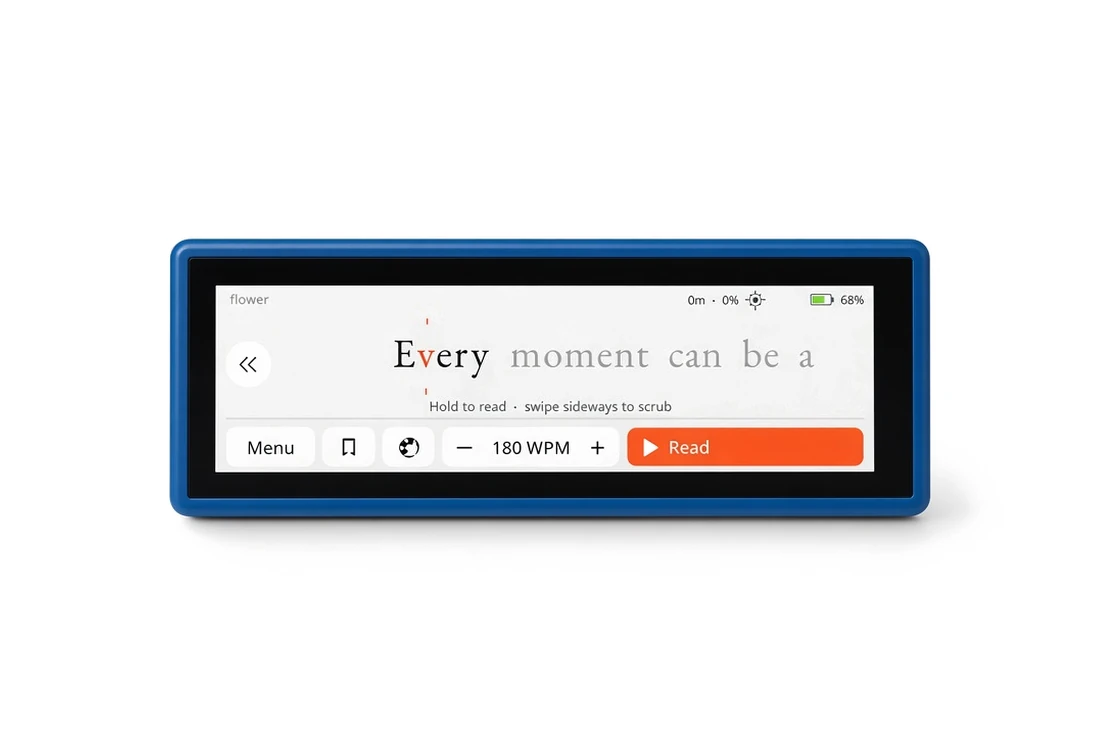
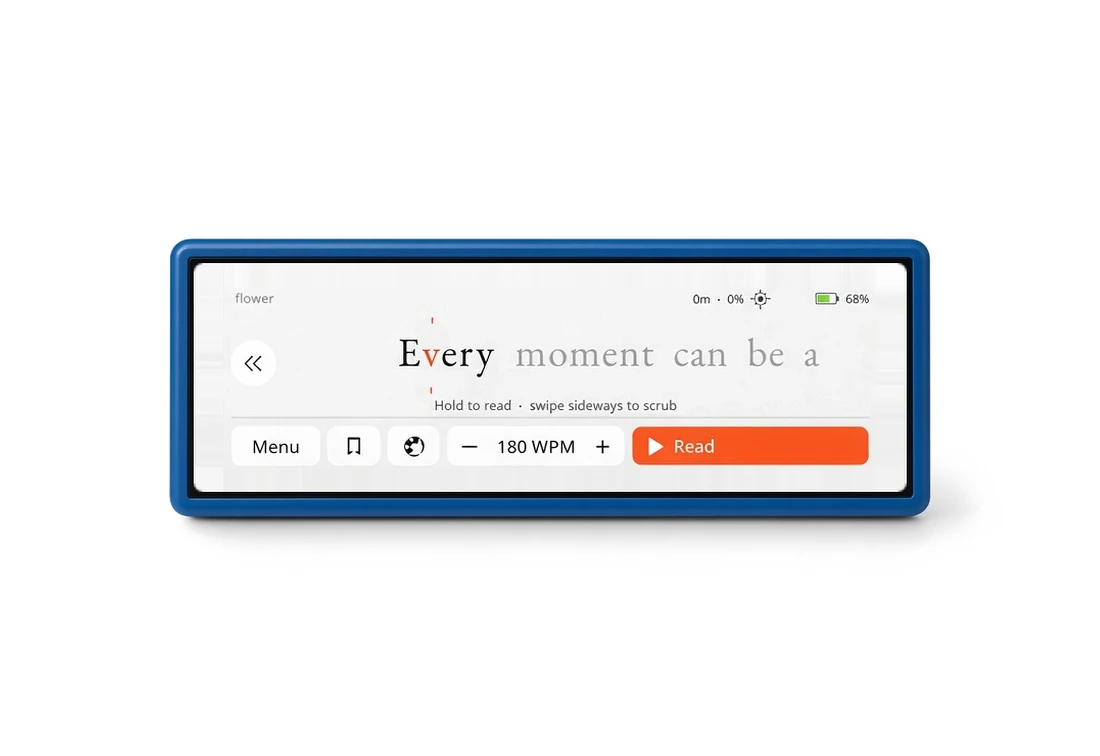
Sklep: zdjęcie w kieszeni jeansów, cieńsza ramka przy jasnym ekranie, nowa kolejność
- Dodane zdjęcie z kieszeni jeansów jako ostatnie w galerii.
- Jasny przód: cienki czarny margines wokół ekranu, zawartość
  wyśrodkowana (szyba miała 27 px z lewej i 38 px z prawej).
- Kolejność: jasny, ciemny, nocny.

Claude-Session: https://claude.ai/code/session_014VPke1m4uxLZH5hJ7RxM4g

Changed region(s): [[0.1545, 0.3347, 0.8345, 0.6693], [0.34, 0.4563, 0.7418, 0.4868]]

diff --git a/index.html b/index.html
@@ -154,7 +154,7 @@ body.dark #meadow{visibility:hidden}
 @media (max-width:900px){.gal{position:static}}
 .gal .main{aspect-ratio:16/11;display:grid;place-items:center;background:#fff;border-radius:22px;overflow:hidden}
 .gal .main img{width:100%;height:100%;object-fit:contain;display:block}
-.thumbs{display:grid;grid-template-columns:repeat(7,minmax(0,1fr));gap:6px;margin-top:10px}
+.thumbs{display:grid;grid-template-columns:repeat(8,minmax(0,1fr));gap:5px;margin-top:10px}
 .thumbs button{aspect-ratio:16/11;border:0;border-radius:12px;overflow:hidden;background:#fff;padding:0;cursor:pointer;opacity:.6;transition:opacity .2s,box-shadow .2s}
 .thumbs button:hover{opacity:.85}
 .thumbs button[aria-pressed="true"]{opacity:1;box-shadow:0 0 0 2px var(--fg)}
@@ -1330,7 +1330,7 @@ var seedsLayer=document.getElementById('seeds'),meadow=document.getElementById('
 })();
 /* ---------- product photos ---------- */
 (function(){
-  var P=[['przod-jasny','Przód, motyw jasny'],['tryb-nocny','Przód, motyw nocny'],['przod-ciemny','Przód, motyw ciemny'],['biblioteka','Biblioteka'],['bok-przyciski','Bok z przyciskami i portem USB-C'],['tyl-bok','Tył z głośnikiem, przyciskami i USB-C'],['tyl','Tył z naklejką']];
+  var P=[['przod-jasny','Przód, motyw jasny'],['przod-ciemny','Przód, motyw ciemny'],['tryb-nocny','Przód, motyw nocny'],['biblioteka','Biblioteka'],['bok-przyciski','Bok z przyciskami i portem USB-C'],['tyl-bok','Tył z głośnikiem, przyciskami i USB-C'],['tyl','Tył z naklejką'],['w-kieszeni','W kieszeni jeansów']];
   var thumbs=document.getElementById('thumbs'),main=document.getElementById('gMain');
   P.forEach(function(p,i){var src='obrazy/'+p[0]+'.webp',b=document.createElement('button');b.type='button';b.setAttribute('aria-pressed',i===0?'true':'false');b.setAttribute('aria-label',p[1]);
     var im=document.createElement('img');im.src=src;im.alt='';im.loading='lazy';im.decoding='async';b.appendChild(im);
